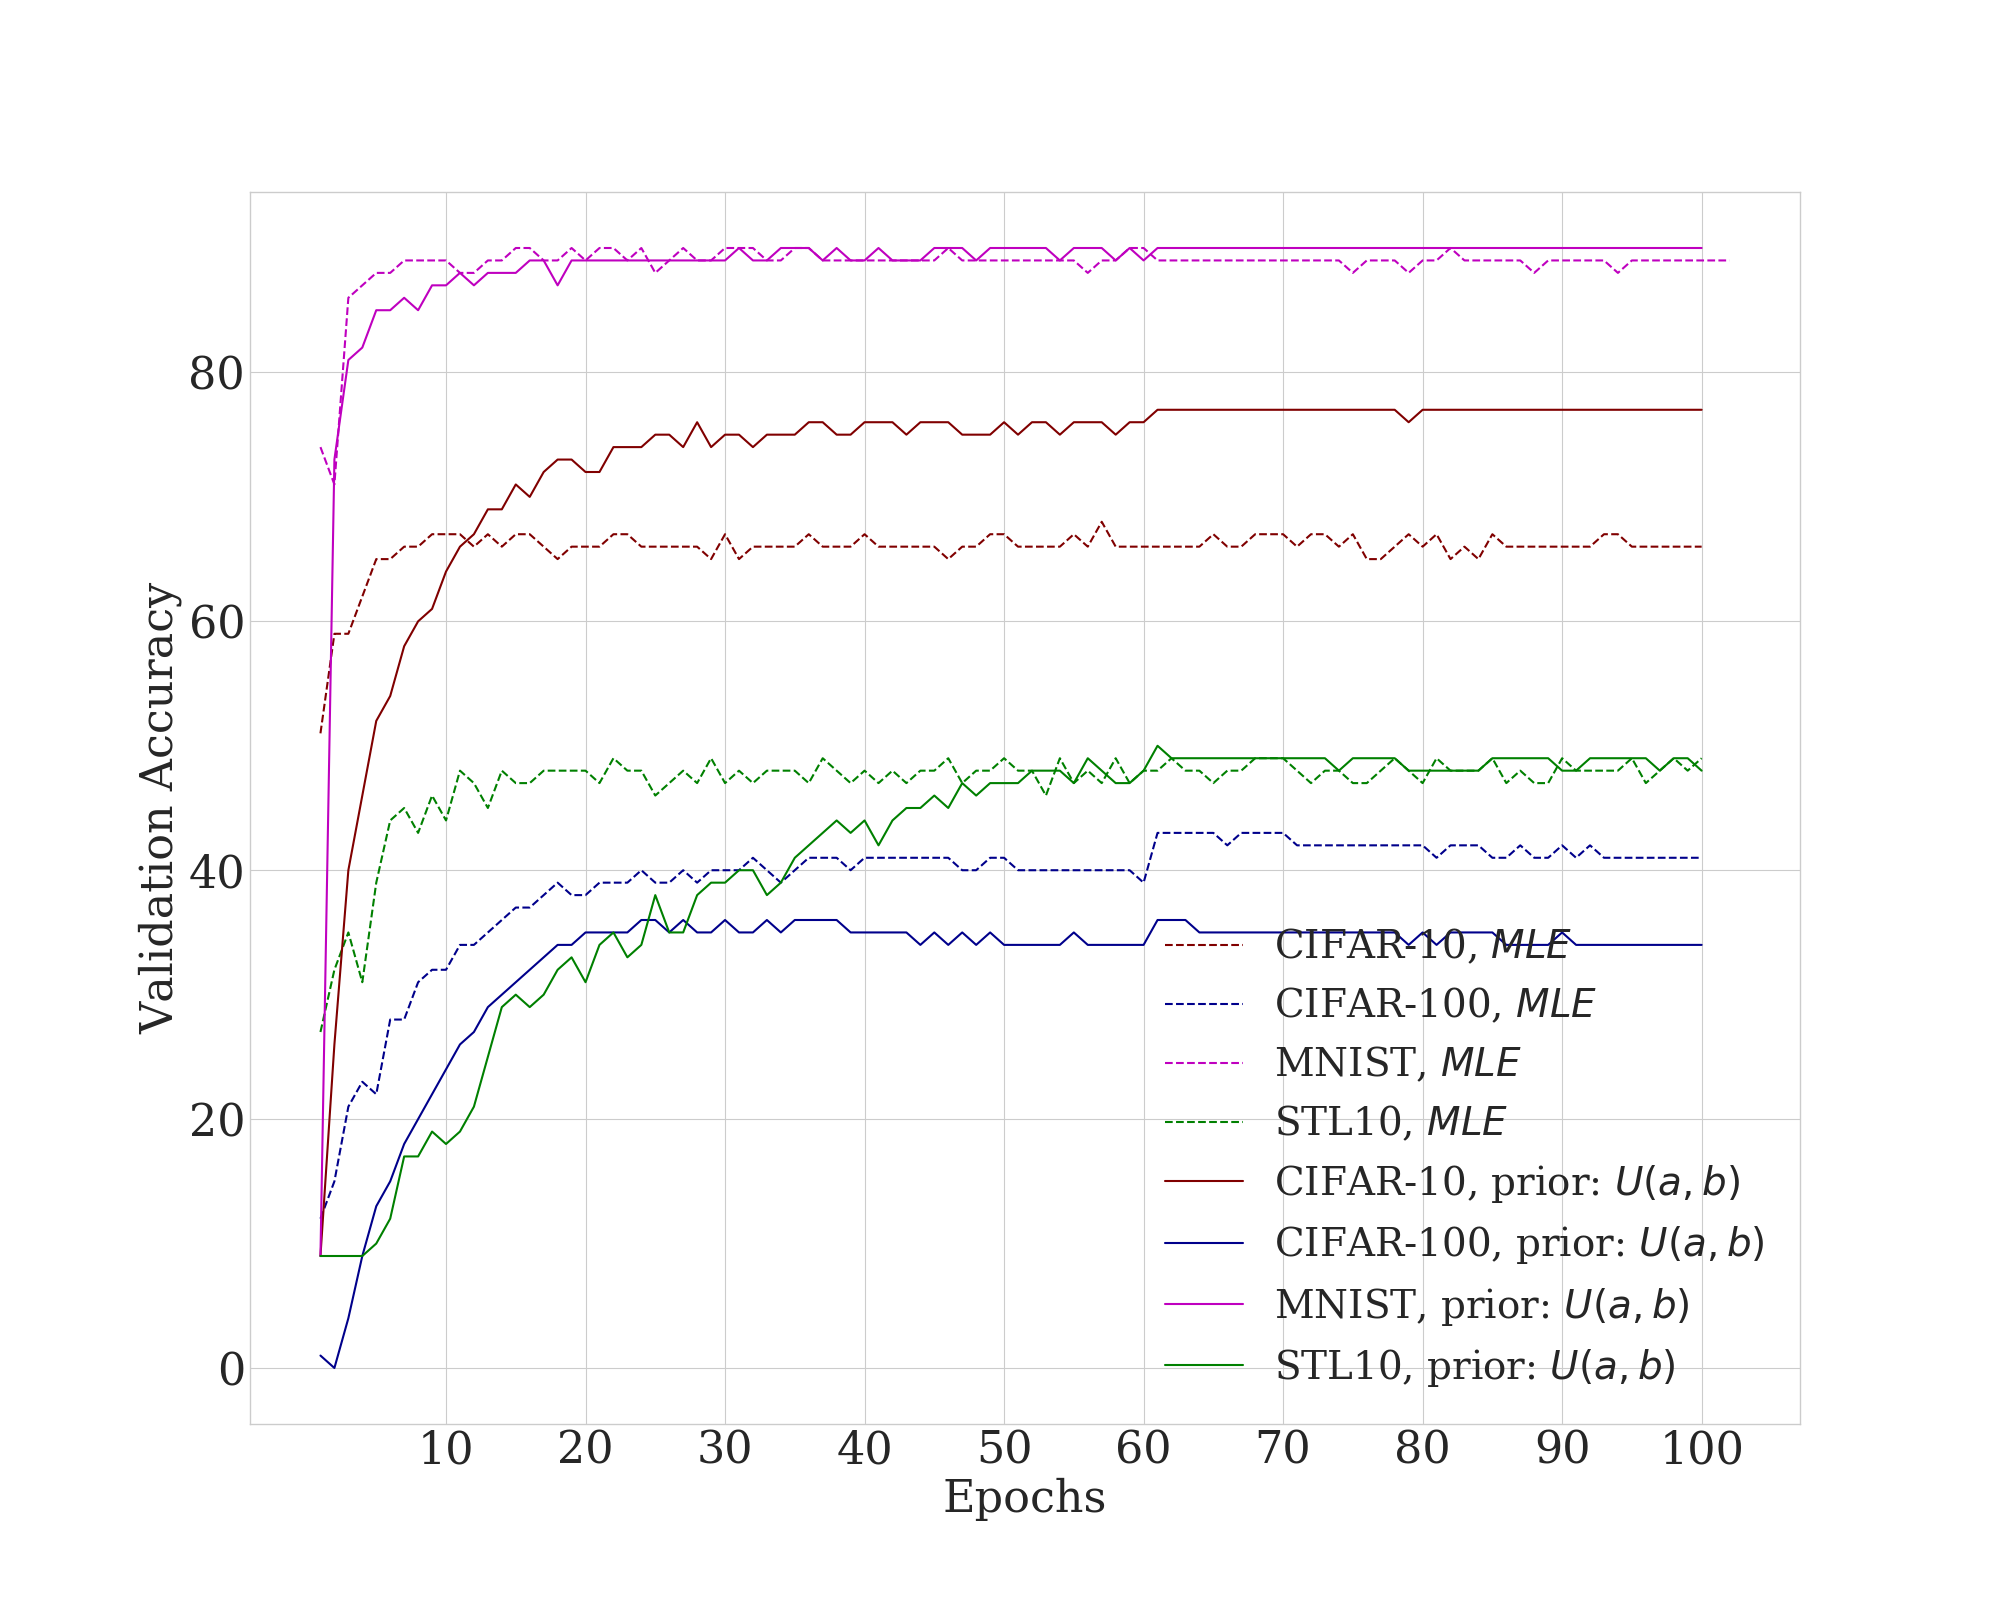
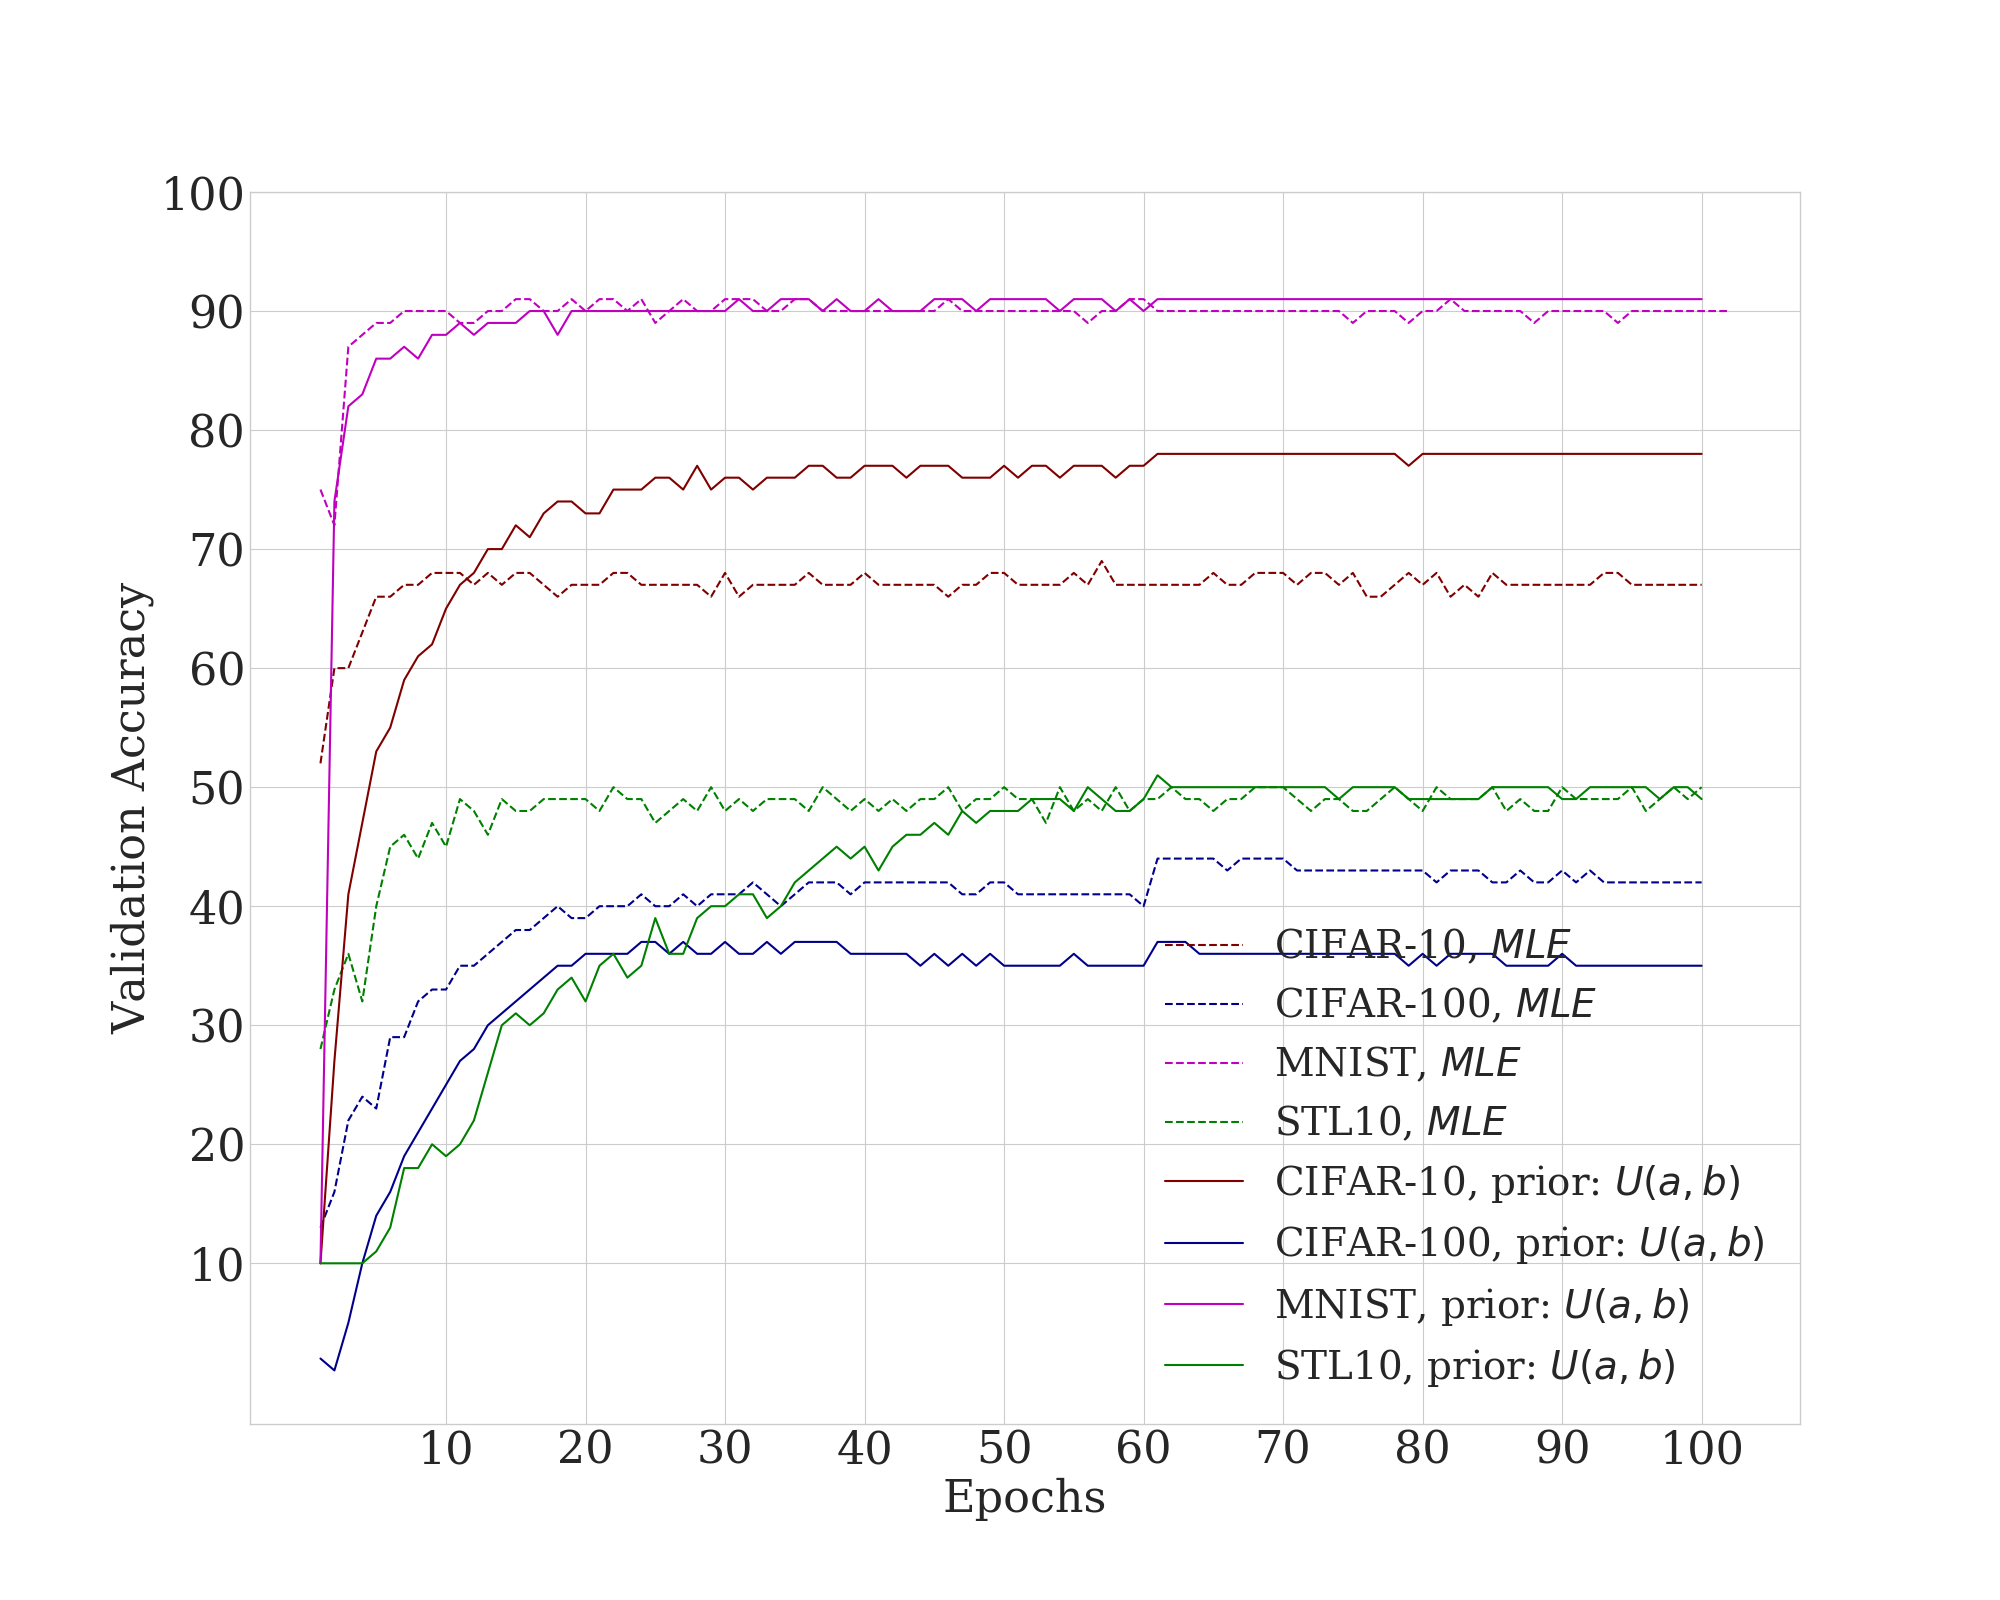
changed y-axis divison to 10

diff --git a/extraction/extract_acc.py b/extraction/extract_acc.py
@@ -11,7 +11,7 @@ plt.rcParams.update({'xtick.labelsize': 32, 'ytick.labelsize': 32, 'axes.labelsi
 # change for given number of tasks
 os.chdir("../results/")
 
-with open("diagnostics_NonBayes3Conv3FC_cifar10.txt", 'r') as file:
+with open("3Conv3FC/diagnostics_NonBayes3conv3fc_cifar10.txt", 'r') as file:
     acc = re.findall(r"'Accuracy':\s+tensor\((.*?)\)", file.read())
 print(acc)
 
@@ -21,7 +21,7 @@ valid_1 = acc[1::2]
 train_1 = np.array(train_1).astype(np.float32)
 valid_1 = np.array(valid_1).astype(np.float32)
 
-with open("diagnostics_NonBayes3Conv3FC_cifar100.txt", 'r') as file:
+with open("3Conv3FC/diagnostics_NonBayes3conv3fc_cifar100.txt", 'r') as file:
     acc = re.findall(r"'Accuracy':\s+tensor\((.*?)\)", file.read())
 print(acc)
 
@@ -31,7 +31,7 @@ valid_2 = acc[1::2]
 train_2 = np.array(train_2).astype(np.float32)
 valid_2 = np.array(valid_2).astype(np.float32)
 
-with open("diagnostics_Bayes3Conv3FC_cifar10.txt", 'r') as file:
+with open("3Conv3FC/diagnostics_NonBayes3conv3fc_mnist.txt", 'r') as file:
     acc = re.findall(r"'Accuracy':\s+tensor\((.*?)\)", file.read())
 print(acc)
 
@@ -41,7 +41,7 @@ valid_3 = acc[1::2]
 train_3 = np.array(train_3).astype(np.float32)
 valid_3 = np.array(valid_3).astype(np.float32)
 
-with open("diagnostics_Bayes3Conv3FC_cifar100.txt", 'r') as file:
+with open("3Conv3FC/diagnostics_NonBayes3conv3fc_stl10.txt", 'r') as file:
     acc = re.findall(r"'Accuracy':\s+tensor\((.*?)\)", file.read())
 print(acc)
 
@@ -51,30 +51,72 @@ valid_4 = acc[1::2]
 train_4 = np.array(train_4).astype(np.float32)
 valid_4 = np.array(valid_4).astype(np.float32)
 
+with open("3Conv3FC/diagnostics_Bayes3conv3fc_cifar10.txt", 'r') as file:
+    acc = re.findall(r"'Accuracy':\s+tensor\((.*?)\)", file.read())
+print(acc)
+
+train_5 = acc[0::2]
+valid_5 = acc[1::2]
+
+train_5 = np.array(train_5).astype(np.float32)
+valid_5 = np.array(valid_5).astype(np.float32)
+
+with open("3Conv3FC/diagnostics_Bayes3conv3fc_cifar100.txt", 'r') as file:
+    acc = re.findall(r"'Accuracy':\s+tensor\((.*?)\)", file.read())
+print(acc)
+
+
+train_6 = acc[0::2]
+valid_6 = acc[1::2]
+
+train_6 = np.array(train_6).astype(np.float32)
+valid_6 = np.array(valid_6).astype(np.float32)
+
+with open("3Conv3FC/diagnostics_Bayes3conv3fc_mnist.txt", 'r') as file:
+    acc = re.findall(r"'Accuracy':\s+tensor\((.*?)\)", file.read())
+print(acc)
+
+train_7 = acc[0::2]
+valid_7 = acc[1::2]
+
+train_7 = np.array(train_7).astype(np.float32)
+valid_7 = np.array(valid_7).astype(np.float32)
+
+with open("3Conv3FC/diagnostics_Bayes3conv3fc_stl10.txt", 'r') as file:
+    acc = re.findall(r"'Accuracy':\s+tensor\((.*?)\)", file.read())
+print(acc)
+
+train_8 = acc[0::2]
+valid_8 = acc[1::2]
+
+train_8 = np.array(train_8).astype(np.float32)
+valid_8 = np.array(valid_8).astype(np.float32)
+
 
 f = plt.figure(figsize=(20, 16))
 
-
-print(valid_1)
-print(valid_2)
-print(valid_3)
-print(valid_4)
+print ("Plot saved in results folder")
 
 plt.plot(valid_1, label=r"CIFAR-10, $MLE$", color='maroon', linestyle='--')
 plt.plot(valid_2, label=r"CIFAR-100, $MLE$", color='darkblue', linestyle='--')
-plt.plot(valid_3, label=r"CIFAR-10, prior: $U(a, b)$", color='maroon')
-plt.plot(valid_4, label=r"CIFAR-100, prior: $U(a, b)$", color='darkblue')
-#plt.plot(valid_5, label=r"Fashion-MNIST, prior: $U(a, b)$", color='m')
-#plt.plot(valid_6, label=r"Fashion-MNIST, $MLE$", color='m', linestyle='--')
+plt.plot(valid_3, label=r"MNIST, $MLE$", color='m', linestyle='--')
+plt.plot(valid_4, label=r"STL10, $MLE$", color='green', linestyle='--')
+plt.plot(valid_5, label=r"CIFAR-10, prior: $U(a, b)$", color='maroon')
+plt.plot(valid_6, label=r"CIFAR-100, prior: $U(a, b)$", color='darkblue')
+plt.plot(valid_7, label=r"MNIST, prior: $U(a, b)$", color='m')
+plt.plot(valid_8, label=r"STL10, prior: $U(a, b)$", color='green')
+
 
 
 
 plt.xlabel("Epochs")
 plt.ylabel("Validation Accuracy")
 x_ticks = range(len(valid_1))
+y_ticks = range(len(valid_1))
 plt.xticks(x_ticks[9::10], map(lambda x: x+1, x_ticks[9::10]))
+plt.yticks(y_ticks[9::10], map(lambda y: y+1, y_ticks[9::10]))
 
 plt.legend(fontsize=28)
 
-plt.savefig("results_CNN.png")
+plt.savefig("results_3conv3fc.png")
 
